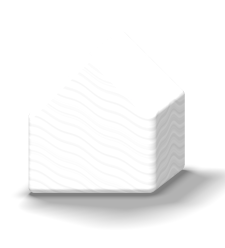
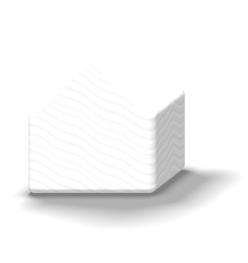
Web of Power: whole piece shadows; tag 12 off Franken's corner
The pieces' light images were cut short of their own ground shadows
(hard edges on the board and the player cards), and the player cards'
small icons clipped what was left. Both images now hold the whole
shadow, and the card icons let it fall onto the card.

Alliance tag 12 moves up the Schwaben-Bayern border, between Franken's
corner and the Stams house, clear of Italy.

Changed region(s): [[0.0933, 0.3387, 1.0, 0.9032]]

diff --git a/games/web-of-power-ui/src/lib/board/pieceSprites.ts b/games/web-of-power-ui/src/lib/board/pieceSprites.ts
@@ -11,13 +11,13 @@ export type PieceSprite = {
 export const HOUSE_SPRITE: PieceSprite = {
     outline:
         'M8.27 -43.67 L8.80 -43.60 L9.47 -43.27 L24.93 -27.80 L25.13 -27.40 L25.20 -7.80 L24.93 -7.13 L24.13 -6.33 L17.20 -1.00 L16.27 -0.53 L-15.13 -0.53 L-15.73 -0.80 L-16.13 -1.20 L-16.40 -1.93 L-16.40 -20.93 L-16.13 -21.73 L-0.27 -37.67 L6.93 -43.20 L7.53 -43.53 L8.27 -43.60 Z',
-    light: { x: -24, y: -52, width: 60, height: 66 },
+    light: { x: -24, y: -52, width: 66, height: 70 },
     ring: { x: 4.4, y: -22.1, r: 29.0 }
 }
 
 export const PEG_SPRITE: PieceSprite = {
     outline:
         'M-1.27 -24.47 L2.47 -24.33 L5.20 -23.60 L6.53 -22.87 L7.33 -22.13 L7.73 -21.53 L8.00 -20.73 L8.00 -0.87 L7.53 0.27 L6.53 1.27 L5.33 1.93 L2.40 2.73 L-1.20 2.87 L-2.80 2.67 L-4.67 2.20 L-6.00 1.60 L-6.87 1.00 L-7.53 0.27 L-8.00 -0.87 L-8.00 -20.73 L-7.73 -21.53 L-7.33 -22.13 L-6.13 -23.13 L-4.27 -23.93 L-2.47 -24.33 L-1.27 -24.40 Z',
-    light: { x: -13, y: -29, width: 31, height: 39 },
+    light: { x: -13, y: -29, width: 43, height: 42 },
     ring: { x: 0.0, y: -10.8, r: 14.8 }
 }

diff --git a/games/web-of-power-ui/src/lib/components/PlayerCard.svelte b/games/web-of-power-ui/src/lib/components/PlayerCard.svelte
@@ -99,6 +99,12 @@
         gap: 4px;
     }
 
+    /* Each piece's ground shadow is part of its light image and reaches past the piece; let it
+       fall onto the card rather than be cut off at the icon's edge. */
+    .tally svg {
+        overflow: visible;
+    }
+
     .mini-card {
         width: 11px;
         height: 15px;

diff --git a/games/web-of-power-ui/src/lib/board/mapData.ts b/games/web-of-power-ui/src/lib/board/mapData.ts
@@ -221,7 +221,7 @@ export const ALLIANCE_BOXES: Record<number, { x: number; y: number }> = {
     9: { x: 915, y: 319 },
     10: { x: 903, y: 459 },
     11: { x: 1365, y: 387 },
-    12: { x: 1128, y: 702 },
+    12: { x: 1093, y: 652 },
     13: { x: 922, y: 688 },
     14: { x: 838, y: 855 },
     15: { x: 1420, y: 983 }
